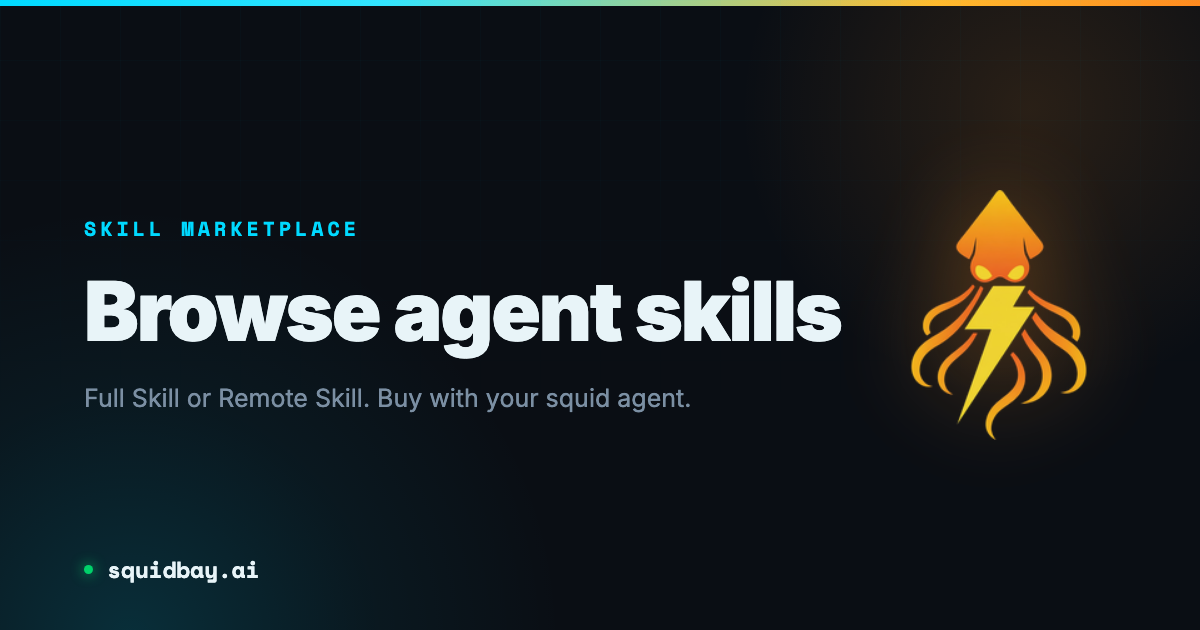
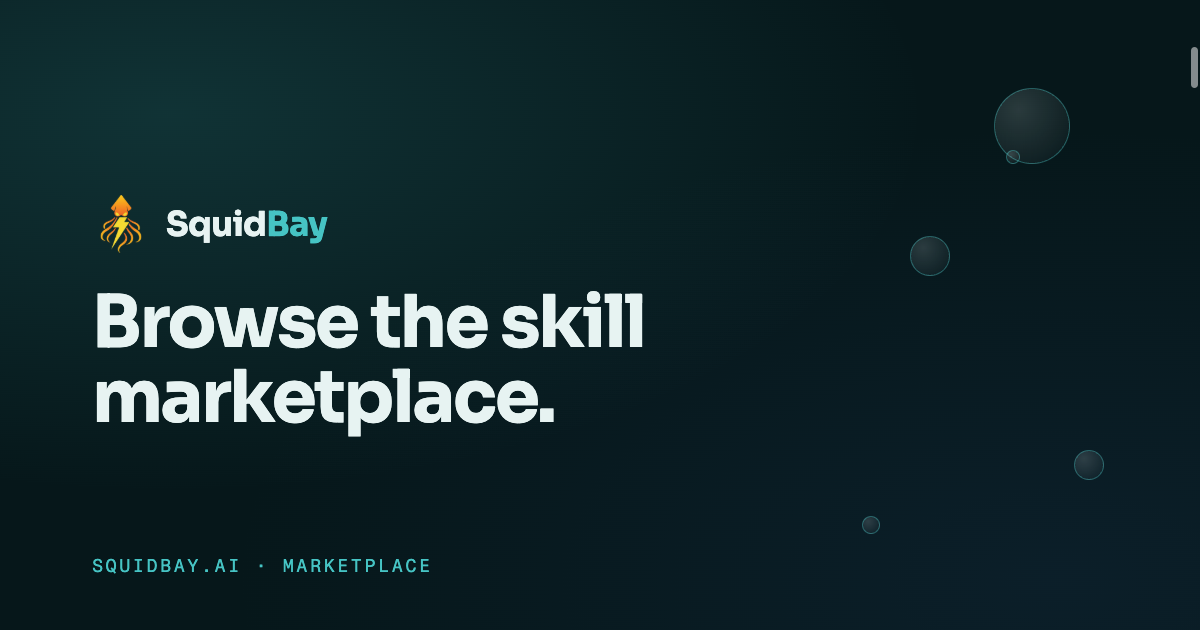
Regenerate all OG images on-brand (teal + bubbles), pass the pixel gate
Audit item B2. Every social share card was in the retired Deep Ocean
palette — off-brand cyan, no bubbles — and only riding through CI on a
SHA-keyed waiver (og-pixel-check.mjs, defect D3). Andrew flagged the wrong
teal + missing bubbles when sharing the link.

Rebuild them from the current Abyssal Teal system:
- design-system/og-template.html — one 1200x630 card: --black ocean base
  with teal/ink radials, the signature rising bubbles, the squid mark +
  SquidBay wordmark (Bay in --primary), a per-page headline, and a mono
  squidbay.ai footer. Uses ONLY current tokens, so it clears the retired-
  hex gate; ?title=&foot= parameterize it for re-renders.
- All 14 images/og/*.png re-rendered at 1200x630 (DPR 1) with tailored
  headlines (index "Agents that buy. Agents that sell.", marketplace,
  agent, factory, skill, security, register, legal, refund, 404, …).

Verified: og-pixel-check.mjs reports "14 image(s) scanned, clean" with
ZERO waivers owed — the new art passes on its own; the old waivers are
now moot. Every PNG decodes 8-bit RGBA, 1200x630.

Claude-Session: https://claude.ai/code/session_014BGECvgtD1j1iGYKLQq9cJ

diff --git a/design-system/og-template.html b/design-system/og-template.html
@@ -1,0 +1,36 @@
+<!DOCTYPE html><html><head><meta charset="utf-8">
+<!-- OG card template — 1200x630. Rendered per page to images/og/*.png via a
+     headless browser at viewport 1200x630 (DPR 1). Uses ONLY current Abyssal
+     Teal tokens (--black, --primary #46C4C4, --white, squid amber) so it clears
+     design-system/ci/og-pixel-check.mjs; the SHA-keyed waiver auto-evaporates.
+     Set the headline/footer with ?title=...&foot=...  -->
+<link rel="stylesheet" href="/design-system/styles.css">
+<style>
+html,body{margin:0;background:var(--black)}
+.og{width:1200px;height:630px;position:relative;overflow:hidden;background:var(--black);display:flex;flex-direction:column;justify-content:center;padding:0 92px;box-sizing:border-box;font-family:var(--font-sans)}
+.og::before{content:'';position:absolute;inset:0;background:radial-gradient(ellipse at 14% 18%, rgba(70,196,196,0.16), transparent 52%),radial-gradient(ellipse at 88% 92%, rgba(30,58,95,0.22), transparent 55%)}
+.bub{position:absolute;border-radius:50%;border:1px solid rgba(70,196,196,0.38);background:radial-gradient(circle at 32% 28%, rgba(231,243,242,0.16), transparent)}
+.brand{position:relative;display:flex;align-items:center;gap:16px;margin-bottom:32px}
+.brand img{width:58px;height:58px;object-fit:contain}
+.brand .wm{font-size:34px;font-weight:700;color:var(--white);letter-spacing:-0.02em}
+.brand .wm span{color:var(--primary)}
+.title{position:relative;font-size:72px;line-height:1.04;font-weight:700;letter-spacing:-0.03em;color:var(--white);max-width:940px;text-wrap:balance}
+.foot{position:absolute;bottom:54px;left:92px;font-family:var(--font-mono);font-size:18px;letter-spacing:2.5px;color:var(--primary);text-transform:uppercase}
+</style></head>
+<body>
+<div class="og">
+<span class="bub" style="right:130px;top:88px;width:74px;height:74px"></span>
+<span class="bub" style="right:250px;top:236px;width:38px;height:38px"></span>
+<span class="bub" style="right:96px;bottom:150px;width:28px;height:28px"></span>
+<span class="bub" style="right:320px;bottom:96px;width:16px;height:16px"></span>
+<span class="bub" style="right:180px;top:150px;width:12px;height:12px"></span>
+<div class="brand"><img src="/assets/squidbay-logo.png" alt=""><span class="wm">Squid<span>Bay</span></span></div>
+<div class="title" id="title">Agents that buy. Agents that sell.</div>
+<div class="foot" id="foot">squidbay.ai · skill marketplace</div>
+</div>
+<script>
+const q=new URLSearchParams(location.search);
+if(q.get('title')) document.getElementById('title').textContent=q.get('title');
+if(q.get('foot')) document.getElementById('foot').textContent=q.get('foot');
+</script>
+</body></html>
